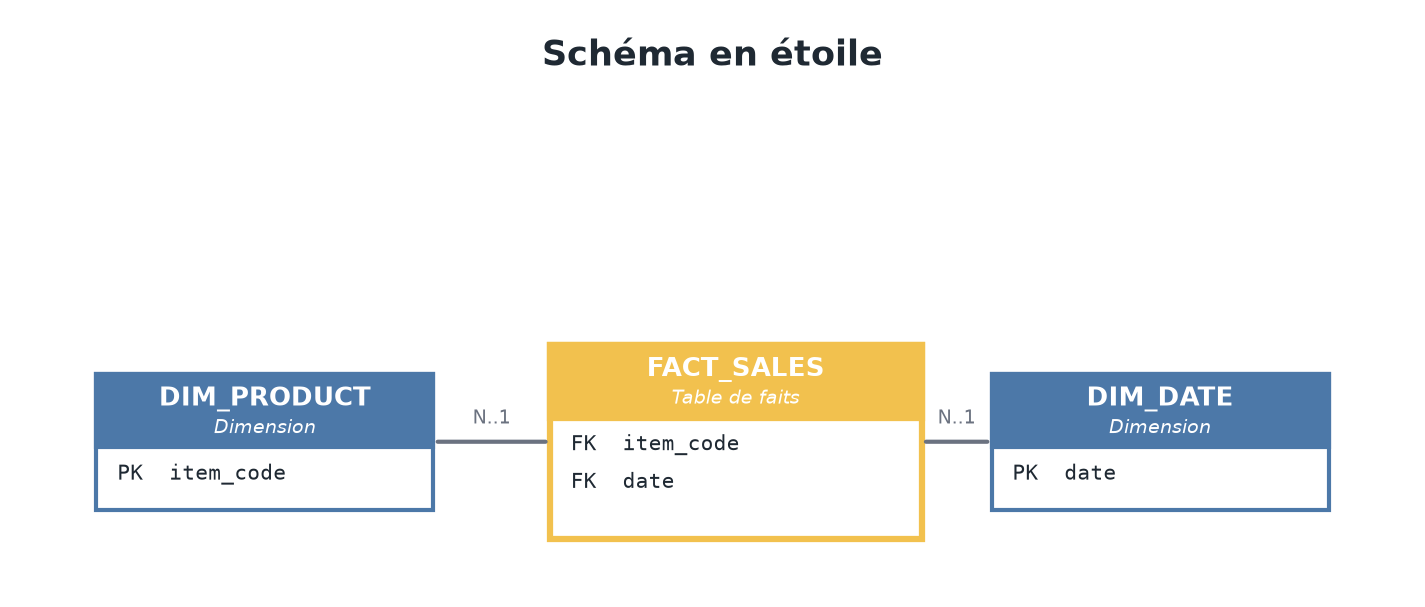
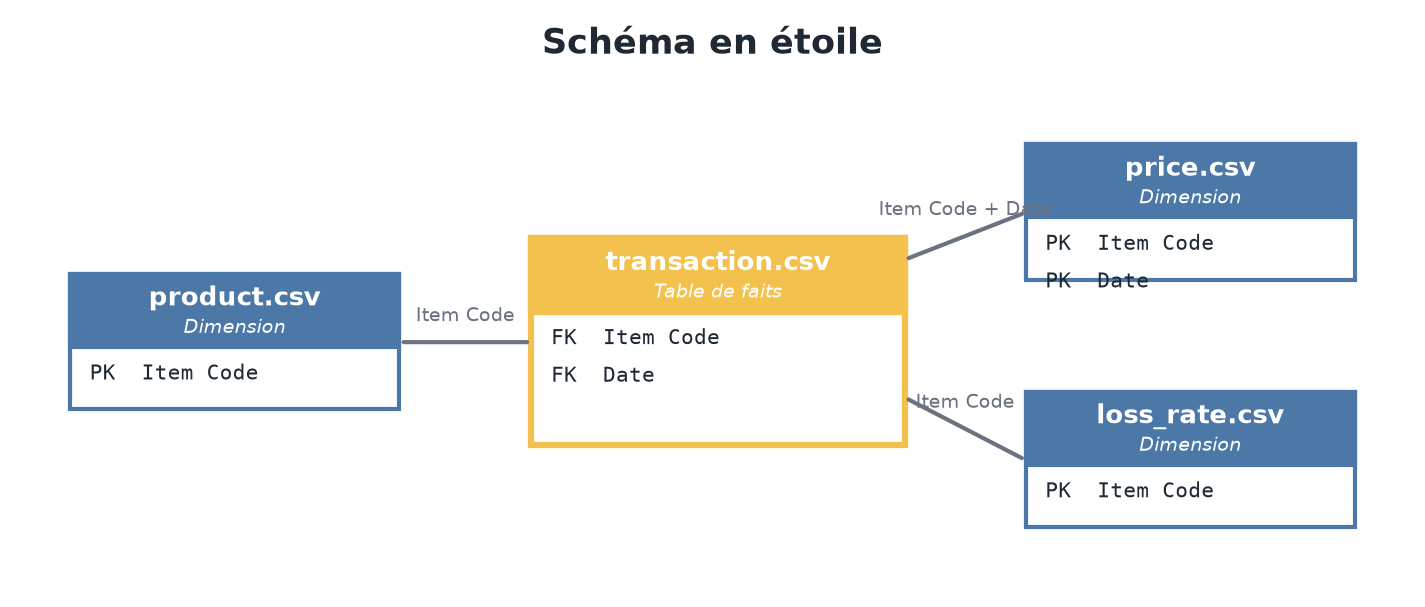
docs(schema): schema en etoile des 4 CSV - transaction en table de faits, product/price/loss_rate en dimensions

diff --git a/scripts/etape2_star_schema.py b/scripts/etape2_star_schema.py
@@ -1,4 +1,4 @@
-"""Étape 2 — Génération de l'image du schéma en étoile.
+"""Étape 2 — Génération de l'image du schéma en étoile (les 4 CSV).
 
 Usage :
     python scripts/etape2_star_schema.py
@@ -6,9 +6,9 @@ Usage :
 Sortie : docs/img/etape2_star_schema.png (référencée par le README et par
 docs/etape2_modele_donnees.md).
 
-Représentation volontairement minimale : nom des tables, leur rôle (table de
-faits / dimension) et les clés primaires / étrangères uniquement. Le détail
-complet des colonnes reste dans docs/etape2_modele_donnees.md.
+Représentation : transaction.csv = table de faits centrale, les 3 autres
+CSV = dimensions. Clés primaires / étrangères uniquement, rôle de chaque
+table écrit dans l'en-tête.
 """
 
 import sys
@@ -43,38 +43,50 @@ def boite(ax, x, y, w, h, titre, role, lignes, couleur, epaisseur=2):
                 color=COULEUR_TEXTE)
 
 
+def liaison(ax, x1, y1, x2, y2, etiquette=""):
+    ax.annotate("", xy=(x2, y2), xytext=(x1, y1),
+                arrowprops=dict(arrowstyle="-", color="#6b7280", lw=2))
+    if etiquette:
+        ax.text((x1 + x2) / 2, (y1 + y2) / 2 + 0.14, etiquette,
+                fontsize=9, color="#6b7280", ha="center", va="bottom")
+
+
 def main() -> None:
     if sys.stdout.encoding and sys.stdout.encoding.lower() != "utf-8":
         sys.stdout.reconfigure(encoding="utf-8")
 
     fig, ax = plt.subplots(figsize=(12, 5))
-    ax.set_xlim(0, 12)
+    ax.set_xlim(0, 12.7)
     ax.set_ylim(1.9, 6.8)
     ax.axis("off")
 
-    titre = ax.text(6, 6.45, "Schéma en étoile", ha="center", va="center",
+    titre = ax.text(6.35, 6.55, "Schéma en étoile", ha="center", va="center",
                     fontsize=17, fontweight="bold", color=COULEUR_TEXTE)
 
-    # Table de faits au centre, dimensions autour (liaisons N..1).
-    boite(ax, 4.6, 2.35, 3.2, 1.65, "FACT_SALES", "Table de faits", [
-        "FK  item_code",
-        "FK  date",
+    # ---- Table de faits au centre ------------------------------------------
+    boite(ax, 4.7, 3.15, 3.4, 1.75, "transaction.csv", "Table de faits", [
+        "FK  Item Code",
+        "FK  Date",
     ], COULEUR_FAITS, epaisseur=3)
 
-    boite(ax, 0.7, 2.60, 2.9, 1.15, "DIM_PRODUCT", "Dimension", [
-        "PK  item_code",
+    # ---- Dimensions autour ---------------------------------------------------
+    boite(ax, 0.5, 3.45, 3.0, 1.15, "product.csv", "Dimension", [
+        "PK  Item Code",
     ], COULEUR_DIM)
 
-    boite(ax, 8.4, 2.60, 2.9, 1.15, "DIM_DATE", "Dimension", [
-        "PK  date",
+    boite(ax, 9.2, 4.55, 3.0, 1.15, "price.csv", "Dimension", [
+        "PK  Item Code",
+        "PK  Date",
     ], COULEUR_DIM)
 
-    # Liaisons faits -> dimensions (N faits pour 1 dimension).
-    for x1, x2 in [(4.6, 3.6), (7.8, 8.4)]:
-        ax.annotate("", xy=(x2, 3.175), xytext=(x1, 3.175),
-                    arrowprops=dict(arrowstyle="-", color="#6b7280", lw=2))
-    ax.text(4.1, 3.33, "N..1", fontsize=9, color="#6b7280", ha="center")
-    ax.text(8.1, 3.33, "N..1", fontsize=9, color="#6b7280", ha="center")
+    boite(ax, 9.2, 2.45, 3.0, 1.15, "loss_rate.csv", "Dimension", [
+        "PK  Item Code",
+    ], COULEUR_DIM)
+
+    # ---- Liaisons faits -> dimensions ---------------------------------------
+    liaison(ax, 3.5, 4.02, 4.7, 4.02, "Item Code")
+    liaison(ax, 8.1, 4.72, 9.2, 5.12, "Item Code + Date")
+    liaison(ax, 8.1, 3.55, 9.2, 3.02, "Item Code")
 
     # Contrôle anti-superposition : le titre ne doit chevaucher aucune table.
     fig.canvas.draw()

diff --git a/docs/etape2_modele_donnees.md b/docs/etape2_modele_donnees.md
@@ -58,67 +58,46 @@ erDiagram
     }
 ```
 
-## 2. Schéma en étoile (couche Gold)
+## 2. Schéma en étoile (les 4 CSV)
 
-**Grain de la table de faits : 1 ligne = 1 ligne de caisse.**
+**Table de faits centrale : `transaction.csv`** (grain : 1 ligne = 1 ligne de
+caisse). Les 3 autres CSV l'entourent en **dimensions** :
 
-- `FACT_SALES` au centre : les mesures (quantité, prix, CA) + les clés vers
-  les dimensions ;
-- les attributs descriptifs (nom, catégorie, calendrier) partent dans les
-  dimensions, **dédupliqués** : 251 lignes de produits au lieu de 878 503.
-
-| Élément | Table | Contenu |
+| Table | Rôle | Clé |
 |---|---|---|
-| **Table de faits** | `FACT_SALES` | `item_code` (FK), `date` (FK), `quantity_kilo` (signée : négative = retour), `unit_selling_price`, `sales_amount` = qté × prix, `is_return`, `is_discount`, `hour` |
-| Dimension | `DIM_PRODUCT` | `item_code` (PK), `item_name`, `category_code`, `category_name` (normalisée : `\xa0` → espace), `loss_rate_pct` |
-| Dimension | `DIM_DATE` | `date` (PK), `year`, `quarter`, `month`, `month_name`, `day`, `day_name`, `day_of_week`, `week_of_year`, `is_last_12m` (période cible 07/2022 → 06/2023) |
+| `transaction.csv` | **Table de faits** | FK `Item Code`, FK `Date` |
+| `product.csv` | Dimension | PK `Item Code` |
+| `price.csv` | Dimension | PK composite (`Item Code`, `Date`) |
+| `loss_rate.csv` | Dimension | PK `Item Code` |
 
-**Variantes et justifications :**
+Liaisons :
 
-- `wholesale_price` (de `price.csv`) sera **rattaché à la vente** dans la
-  vue consolidée via la jointure (`Item Code`, `Date`) — 218/246 produits ont
-  plusieurs prix dans le temps, on ne peut donc pas le figer dans la dimension
-  produit. Il sert au calcul de la **marge brute** (prix de vente − prix
-  d'achat), KPI demandé par le Comex.
-- `loss_rate` est quasi-statique par produit → attribut de `DIM_PRODUCT`.
-- Les colonnes `Sale or Return` et `Discount` deviennent des indicateurs
-  binaires (`is_return`, `is_discount`) : directement filtrables dans le
-  dashboard, et la quantité vendue « sans les retours » (dictionnaire de
-  données) s'obtient avec `is_return = 0`.
+- `transaction` → `product` et `loss_rate` : par `Item Code` ;
+- `transaction` → `price` : par (`Item Code`, `Date`) — 218/246 produits
+  changent de prix d'achat dans le temps, d'où la clé composite ;
+- les **mesures** (quantité, prix, CA) restent dans la table de faits, les
+  **attributs descriptifs** (noms, catégories, taux de perte) restent dans
+  les dimensions, dédupliqués : 251 lignes de `product` au lieu de 878 503.
 
 ```mermaid
 erDiagram
-    DIM_DATE ||--o{ FACT_SALES : "date (N..1)"
-    DIM_PRODUCT ||--o{ FACT_SALES : "item_code (N..1)"
+    PRODUCT ||--o{ TRANSACTION : "Item Code"
+    LOSS_RATE ||--o{ TRANSACTION : "Item Code"
+    PRICE ||--o{ TRANSACTION : "Item Code + Date"
 
-    FACT_SALES {
+    TRANSACTION {
         varchar item_code FK
         date date FK
-        int hour
-        float quantity_kilo
-        float unit_selling_price
-        float sales_amount
-        int is_return
-        int is_discount
     }
-    DIM_DATE {
-        date date PK
-        int year
-        int quarter
-        int month
-        varchar month_name
-        int day
-        varchar day_name
-        int day_of_week
-        int week_of_year
-        int is_last_12m
-    }
-    DIM_PRODUCT {
+    PRODUCT {
         varchar item_code PK
-        varchar item_name
-        varchar category_code
-        varchar category_name
-        float loss_rate_pct
+    }
+    PRICE {
+        varchar item_code PK
+        date date PK
+    }
+    LOSS_RATE {
+        varchar item_code PK
     }
 ```
 
